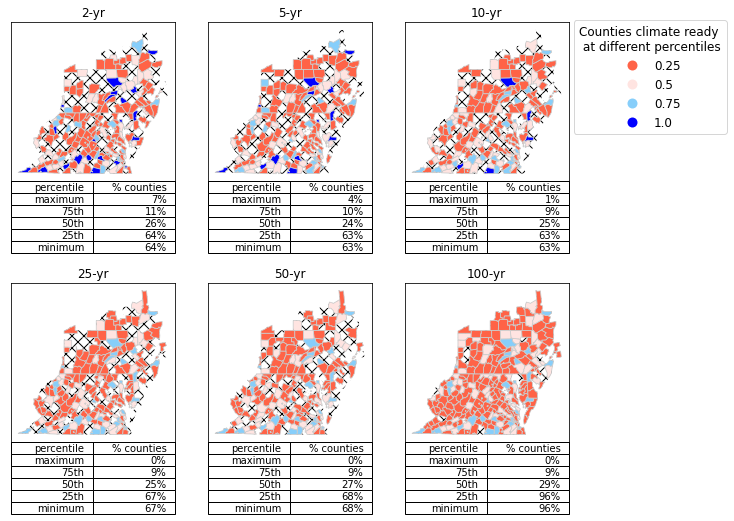
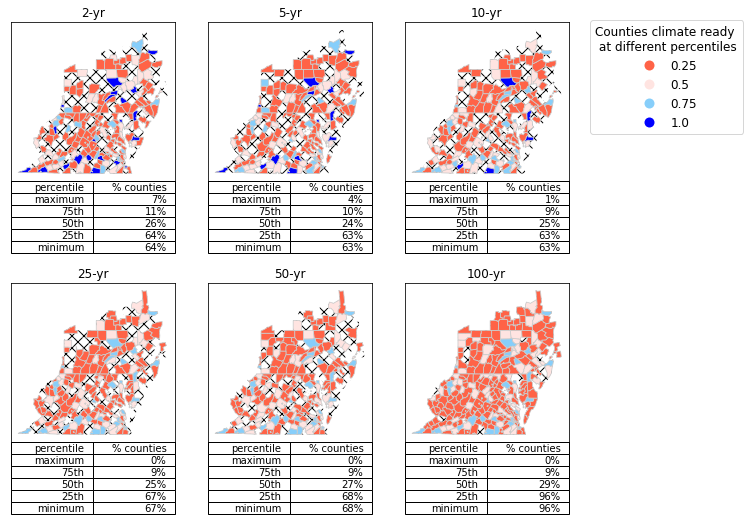
Update IDFcurves_atlasCI_percentiles.py
Update legend in figures representing uncertainty across RCP percentiles

diff --git a/IDFcurves_atlasCI_percentiles.py b/IDFcurves_atlasCI_percentiles.py
@@ -534,9 +534,14 @@ def multiplemaps(listname, titletosave): #with shared legend
         #CBWcounties.plot(column = variable, cmap=plt.cm.get_cmap(newblue), vmin = vmin, vmax = vmax, linewidth=0.8, ax=axs[i], edgecolor='0.8', categorical=False)#, legend = True)
         CBWcounties.plot(facecolor="white", hatch="XX", ax = axs[i])#, edgecolor = '0.3')
         #if i == (len(RP_list)-1): #or i == 2:
-        if i == 2:
+        #if i == 2:
+        #    CBWcounties.plot(column = variable, cmap=plt.cm.get_cmap(cmap_curr), linewidth=0.8, ax=axs[i], edgecolor='0.8', categorical=True,
+        #                     legend = True, legend_kwds={'bbox_to_anchor':(2, 1.05), 'fontsize':12, 
+        #                                                 'title': "Counties climate ready \n at different percentiles",
+        #                                                 'title_fontsize':12})
+        if i == 1:
             CBWcounties.plot(column = variable, cmap=plt.cm.get_cmap(cmap_curr), linewidth=0.8, ax=axs[i], edgecolor='0.8', categorical=True,
-                             legend = True, legend_kwds={'bbox_to_anchor':(2, 1.05), 'fontsize':12, 
+                             legend = True, legend_kwds={'bbox_to_anchor':(3.3, 1.05), 'fontsize':12, 
                                                          'title': "Counties climate ready \n at different percentiles",
                                                          'title_fontsize':12})
         else:
